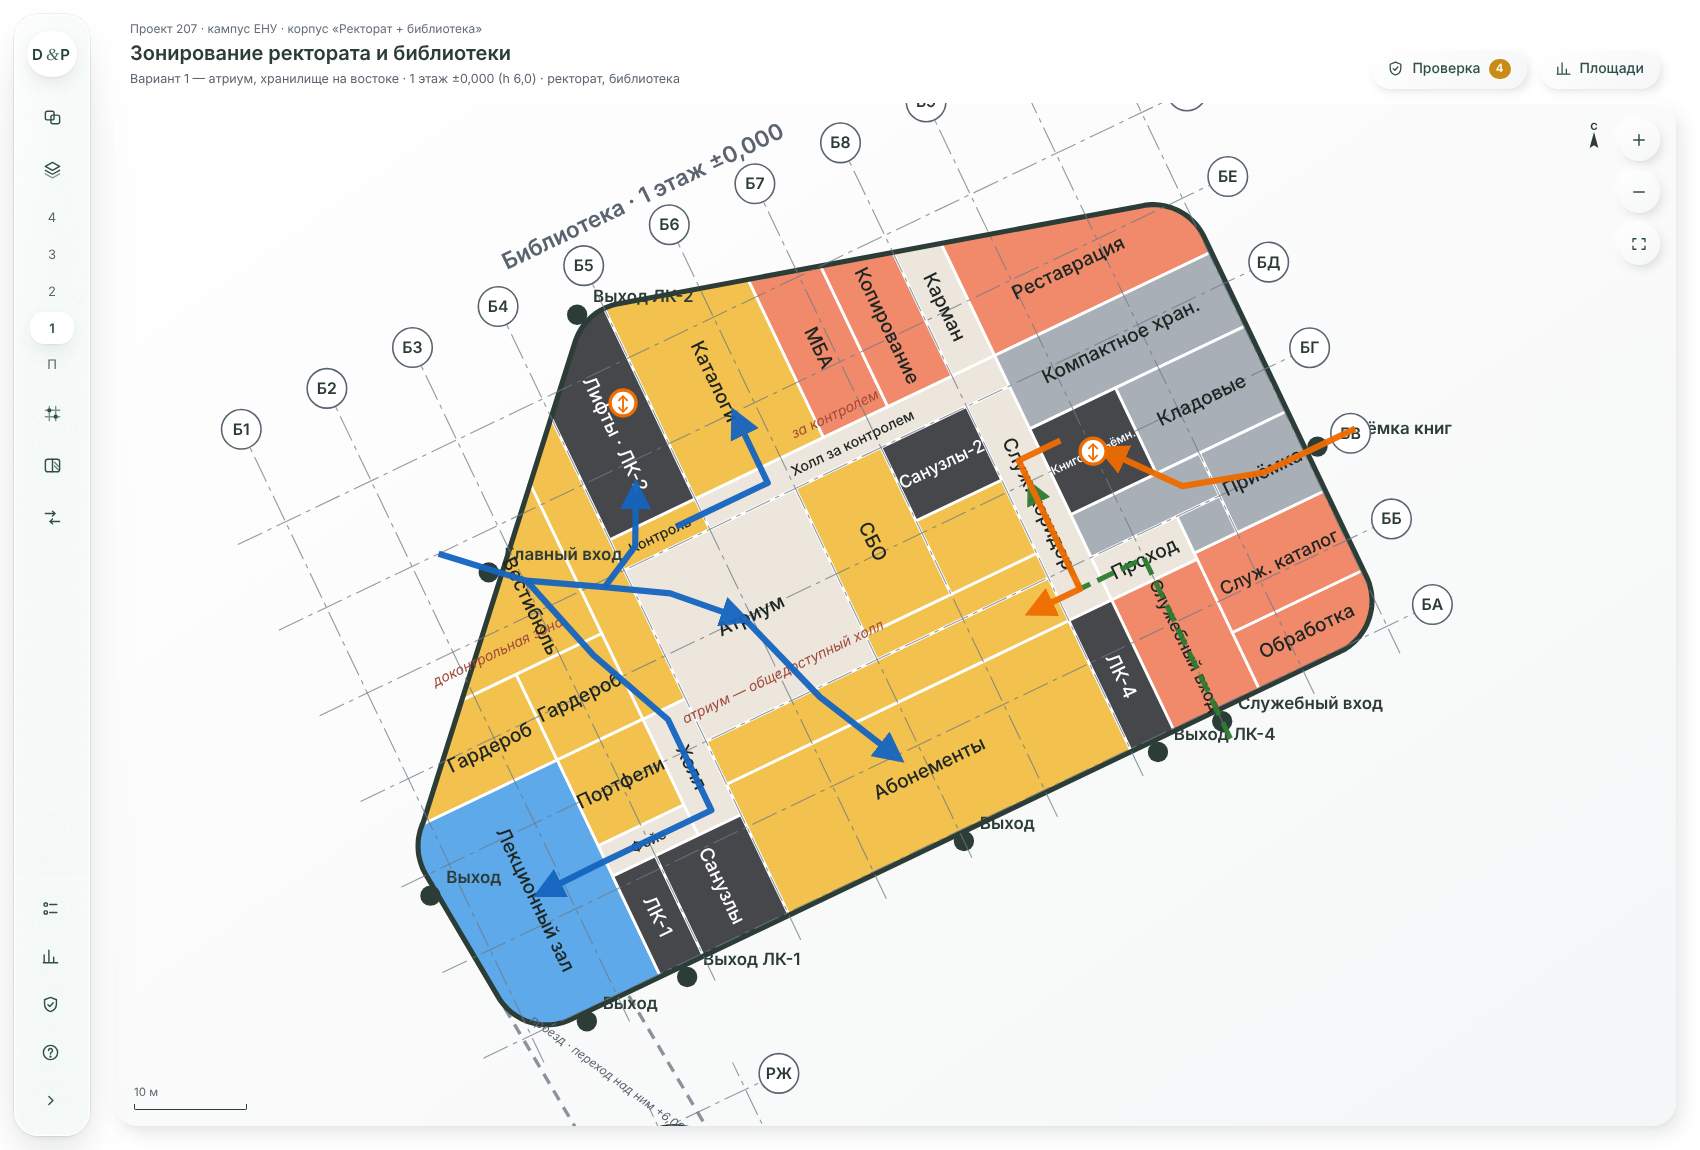
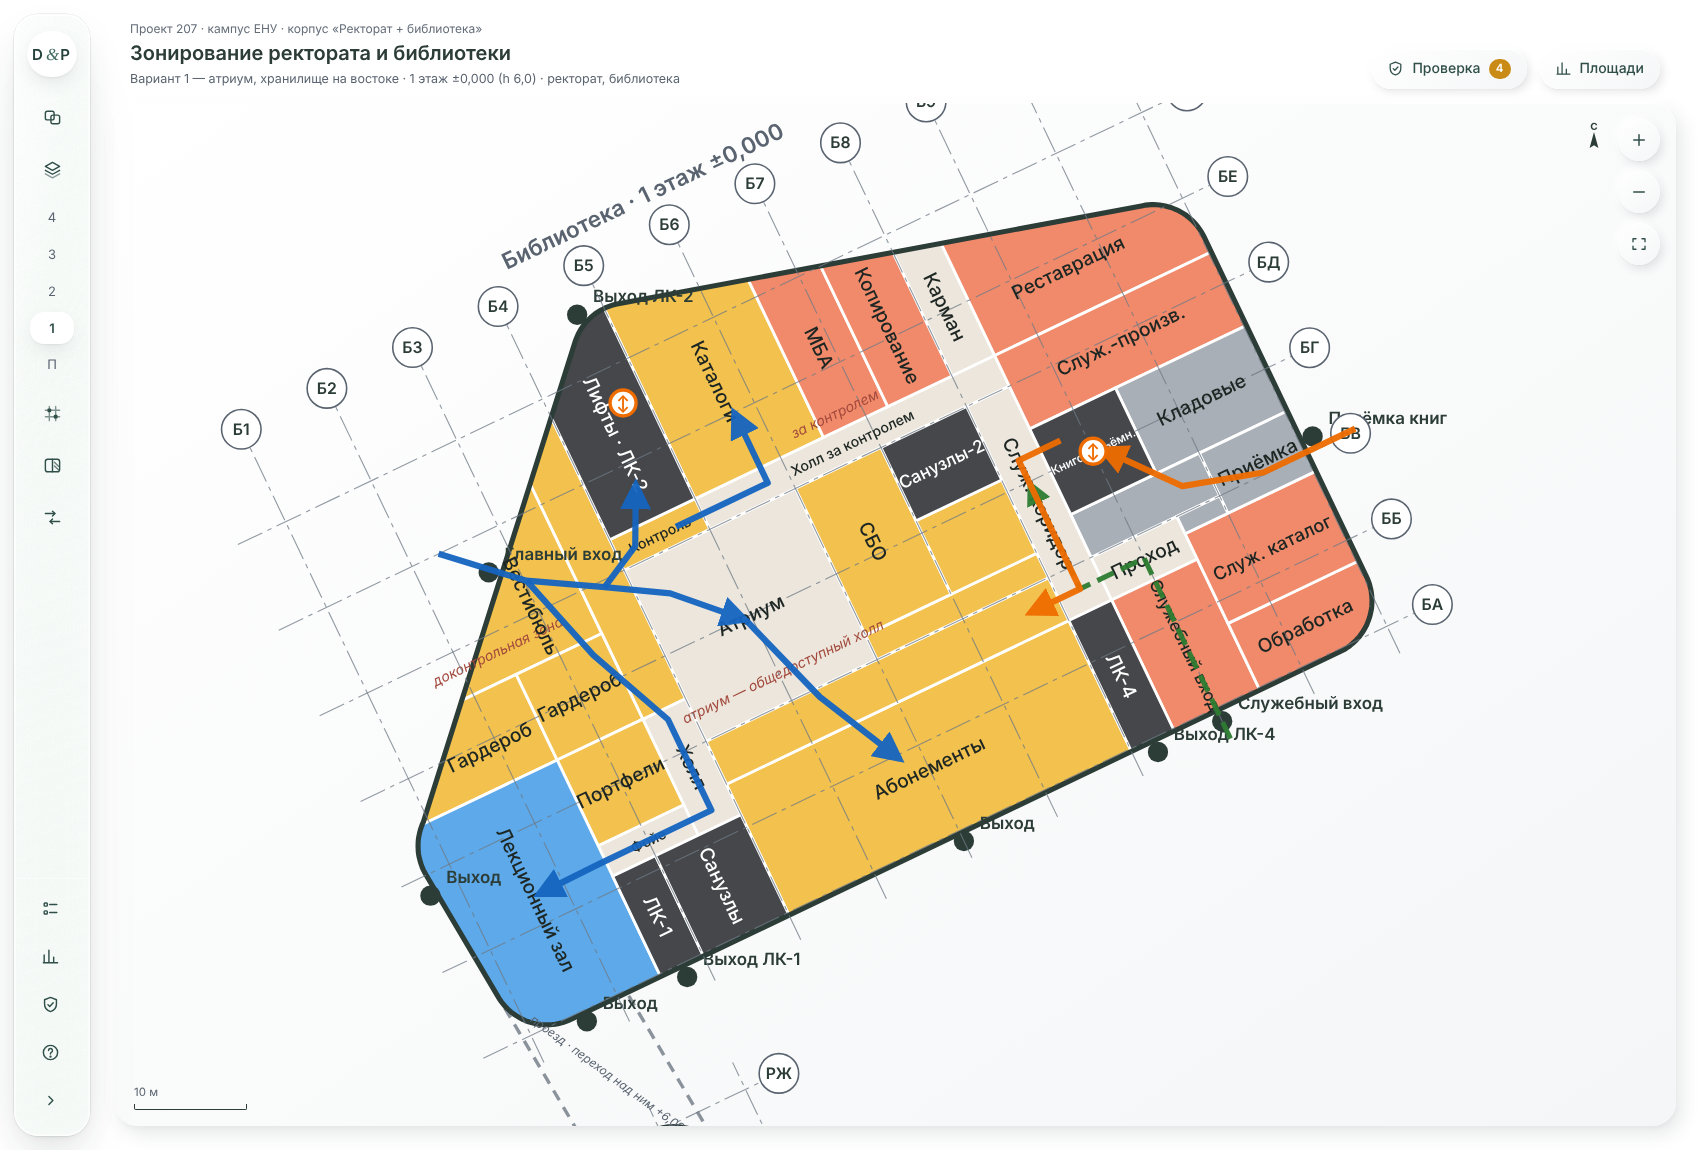
Библиотека: компактное хранение только на 2 эт., на 1 эт. вместо него служебно-производственные; обработка 78, служебный каталог 112 с учётом скругления угла
Claude-Session: https://claude.ai/code/session_01PBUMDRyqQNphWJTD6zJTqL

Changed region(s): [[0.6859, 0.3652, 0.8106, 0.5783], [0.5924, 0.213, 0.7482, 0.3652], [0.8106, 0.3652, 0.8418, 0.3957]]

diff --git a/ADM_LIB_Zoning.html b/ADM_LIB_Zoning.html
@@ -489,22 +489,22 @@ L("1",46.2,52.5,36.6,56,"z5","mba","МБА","Межбиблиотечный аб
 L("1",52.5,58.8,36.6,56,"z5","repro","Копирование","Лаборатория микрофотокопирования и репродуцирования","У хранилища и служебного коридора (п. 3.110); С-фасад.",{p:"serv"});
 L("1",63,86,36.6,56,"z5","rest","Реставрация","Лаборатория гигиены и реставрации книг, переплётно-брошюровочная",
   "Рядом с копированием через световой карман (решение архитектора); при хранилище и книгоподъёмниках (п. 3.110); С и ВСВ фасады — дневной свет.",{p:"serv"});
-L("1",63,86,29.4,36.6,"z7","storeC","Компактное хран.","Компактное хранение (передвижные стеллажи), часть 1",
-  "Компактное хранение разделено на 1 и 2 этажи (решение архитектора); табл. 26 — 20 % фонда × 1,25 м² на 1 000 ед.; передвижные стеллажи — на нижних этажах; без окон.",{p:"store",nl:true});
+L("1",63,86,29.4,36.6,"z5","admin","Служ.-произв.","Служебно-производственные помещения: дирекция, бухгалтерия (у окна ВСВ), кладовые",
+  "Вместо компактного хранения 1 этажа (решение архитектора); табл. 26 — 3 м² на 10 тыс. ед.; производственная зона (п. 3.109), вход из служебного коридора; кабинеты — у ВСВ-окна, кладовые — в глубине.",{p:"serv"});
 L("1",71.4,86,21,29.4,"z7","svc1","Кладовые","Служебно-производственные: кладовые, обменный фонд",
   "Без окон — кладовые (СН РК п. 5.4.6.4); у книгоподъёмников и приёмки (п. 3.109).",{p:"serv",nl:true});
 L("1",63,71.4,-1,12.6,"z5","staffin","Служебный вход","Служебный вход, гардероб персонала, комната психологической разгрузки и приёма пищи",
   "Отдельный служебный вход с гардеробом (п. 3.104, 3.109); психологическая разгрузка — при гардеробе (СН РК 3.02-08 п. 5.4.4.23), приём пищи — п. 5.4.4.29.",{p:"serv"});
 L("1",63,71.4,12.6,16.8,"cor","spass","Проход","Служебный проход: служебный вход — служебный коридор",
   "По решению архитектора: от служебного входа прямо в служебный коридор и к ЛК-4, без читательских зон.");
-L("1",71.4,86,-1,5.4,"z5","proc","Обработка","Комплектование и обработка литературы (78 м²)",
+L("1",71.4,86,-1,6.3,"z5","proc","Обработка","Комплектование и обработка литературы (78 м²)",
   "Табл. 26: 6 м² на сотрудника, 1 сотрудник на 140 тыс. ед. → 78 м²; у служебного входа; ЮЮВ и ВСВ фасады.",{p:"serv"});
-L("1",71.4,86,5.4,13.2,"z5","scat","Служ. каталог","Служебный каталог (112 м²)",
+L("1",71.4,86,6.3,15.1,"z5","scat","Служ. каталог","Служебный каталог (112 м²)",
   "Табл. 26: 2,5 м² на шкаф (40 тыс. ед.) → 112,5 м²; между обработкой и приёмкой; ВСВ-фасад.",{p:"serv"});
-L("1",75.6,86,13.2,21,"z7","exped","Приёмка","Экспедиция: приём и распаковка поступлений",
+L("1",75.6,86,15.1,21,"z7","exped","Приёмка","Экспедиция: приём и распаковка поступлений",
   "Разгрузка с ВСВ-фасада у книгоподъёмников (п. 3.109).",{p:"serv"});
 L("1",63,75.6,16.8,21,"z7","svc1","","Служебно-производственные: кладовые, обменный фонд","Часть кладовых.",{p:"serv"});
-L("1",71.4,75.6,13.2,16.8,"z7","svc1","","Служебно-производственные: кладовые, обменный фонд","Часть кладовых.",{p:"serv"});
+L("1",71.4,75.6,15.1,16.8,"z7","svc1","","Служебно-производственные: кладовые, обменный фонд","Часть кладовых.",{p:"serv"});
 
 // ───────── 2–4 ЭТАЖИ: общее ─────────
 for(const f of ["2","3","4"]){
@@ -531,10 +531,8 @@ for(const f of ["2","3"]){
 L("2",63,86,-1,21,"z7","storeS","Хранение-Ю","Основное книгохранилище, южный отсек",
   "Без окон — фонд без солнца; доступ только из служебного коридора; отсек ≈ 495 м² ≤ 600 м² (п. 4.2.1.69); выходы — служебный коридор и ЛК-4 (п. 5.3.1.29).",{p:"store",nl:true});
 L("2",71.4,86,21,29.4,"z7","storeC","","Компактное хранение (передвижные стеллажи), часть 2","Часть отсека компактного хранения.",{p:"store",nl:true});
-L("2",63,86,29.4,41.4,"z7","storeC","Компактное хран.","Компактное хранение (передвижные стеллажи), часть 2",
-  "Вторая часть компактного хранения (решение архитектора — на двух этажах); сокращено до нормы табл. 26 (450 м² полезной), северная часть отдана дирекции; без окон.",{p:"store",nl:true});
-L("2",63,86,41.4,56,"z5","admin","Дирекция","Дирекция и бухгалтерия библиотеки",
-  "На лишней площади компактного хранения (решение архитектора): администрация — производственная зона (п. 3.109), не выше 3 этажа; окна на С и ВСВ; вход из служебного коридора, без читательских зон.",{p:"serv"});
+L("2",63,86,29.4,56,"z7","storeC","Компактное хран.","Компактное хранение (передвижные стеллажи)",
+  "Компактное хранение (табл. 26: 20 % фонда × 1,25 м² на 1 000 ед.) — на 2 этаже, рядом с книгоподъёмниками; отсек ≈ 430 м² ≤ 600 м² (п. 4.2.1.69); без окон.",{p:"store",nl:true});
 for(const f of ["3"]){
   L(f,63,86,-1,21,"z7","storeS","Хранение-Ю","Основное книгохранилище, южный отсек","Без окон; доступ только из служебного коридора; отсек ≈ 495 м² ≤ 600 м²; выходы — служебный коридор и ЛК-4.",{p:"store",nl:true});
   L(f,71.4,86,21,29.4,"z7","storeN","","Основное книгохранилище, северный отсек","Часть северного отсека.",{p:"store",nl:true});
@@ -584,7 +582,7 @@ L("4",-3,25.2,36.6,56,"z6","av","Аудиовизуал.","Зал аудиови
 // ───────── входы, потоки, вертикальные связи, примечания ─────────
 ENTR.push(["LIB",14.3,38.6,"Главный вход","*"]);
 ENTR.push(["LIB",67.2,-1.3,"Служебный вход","*"]);
-ENTR.push(["LIB",85.3,17,"Приёмка книг","*"]);
+ENTR.push(["LIB",85.3,18,"Приёмка книг","*"]);
 ENTR.push(["LIB",14.7,-1.3,"Выход ЛК-1","*"]);
 ENTR.push(["LIB",-2.7,15,"Выход","*"]);
 ENTR.push(["LIB",31.2,55.8,"Выход ЛК-2","*"]);

diff --git a/LIB_Zoning_REPORT.md b/LIB_Zoning_REPORT.md
@@ -16,7 +16,7 @@
   - **Половина — хранение**, 1 668 м²: три отсека основного хранения ≤ 600 м² и хранилище редких изданий за противопожарными стенами (п. 5.3.1.30). П. 3.110 прямо рекомендует подземные этажи для основного хранилища.
 - **Хранение на этажах пересчитано под норму:**
   - основное — подвал, 2 этаж (южный отсек), 3 этаж (оба отсека);
-  - компактное — 1 этаж и 2 этаж (северный отсек), передвижные стеллажи на нижних этажах; лишняя площадь срезана до нормы (453 м² полезной при 450), на её месте — **дирекция и бухгалтерия** (≈ 70 м², 2 этаж, окна на С, вход из служебного коридора);
+  - компактное — только 2 этаж, северный отсек ≈ 432 м² (≈ 380 м² полезной при норме 450). На 1 этаже на месте компактного хранения — **служебно-производственные помещения** (≈ 153 м²): дирекция и бухгалтерия у ВСВ-окна, кладовые в глубине, вход из служебного коридора;
   - **на 4 этаже хранилища нет** — там научные залы.
 - **Атриум** 16,8 × 16,8 м с фонарём, **без лестницы и общедоступный**. На 1 этаже из него вход в абонемент.
 - **Контроль** — перед лифтами и каталогами, ось Б4–Б5 / БД. За ним лифты к залам, каталоги, СБО, МБА. Со стороны атриума зона за контролем отделена стеклом.
@@ -121,8 +121,8 @@
 | Аудиовизуальные залы, зал редких книг | — | — | — | — | 464 | 464 |
 | Фонд открытого доступа | — | — | 335 | 222 | 222 | 779 |
 | Основное хранение (вкл. редкие издания) | 1 668 | — | 446 | 878 | — | 2 992 |
-| Компактное хранение | — | 153 | 362 | — | — | 515 |
-| Служебные и лаборатории (МБА, копирование, реставрация, служебный вход, обработка, служебный каталог, приёмка, кладовые, портфели; на 2 этаже — дирекция) | — | 934 | 70 | — | — | 1 004 |
+| Компактное хранение | — | — | 432 | — | — | 432 |
+| Служебные и лаборатории (МБА, копирование, реставрация, служебный вход, обработка 79, служебный каталог 113, приёмка, кладовые, портфели, служебно-производственные с дирекцией) | — | 1 087 | — | — | — | 1 087 |
 | Техника | 1 476 | — | — | — | — | 1 476 |
 | Атриум | — | 282 | 282 | 282 | 282 | 1 129 |
 | Коридоры, холлы, служебный коридор | 391 | 333 | 344 | 212 | 63 | 1 344 |
@@ -142,13 +142,13 @@
 | Читальные залы научного отд. | 2 528 | 2 225 | 2 700 | −475 |
 | Аудиовизуальные, редкие книги | 464 | 409 | 900 | −491 |
 | **Основное хранение + сотрудники** | 2 992 | 2 633 | 2 752 | **−119** ² |
-| **Компактное хранение** | 515 | 453 | 450 | **+3** ² |
+| **Компактное хранение** | 432 | 380 | 450 | **−70** ² |
 | Открытый доступ | 779 | 686 | 1 800 | −1 114 |
-| Обработка и служебные (вкл. дирекцию 70) | 1 004 | 884 | 1 259 | −375 |
+| Обработка и служебные | 1 087 | 957 | 1 259 | −302 |
 | **Итого табл. 26** | **12 475** | **≈ 10 980** | **14 012** | **≈ −3 030** |
 
 ¹ Аванзалы — это ещё и галереи вокруг атриума и пути эвакуации.
-² Закрытое хранение вместе: 3 086 м² полезной площади при норме 3 202 — меньше нормы на ≈ 4 %.
+² Закрытое хранение вместе: 3 013 м² полезной площади при норме 3 202 — меньше нормы на ≈ 6 %.
 
 **Места в залах:** учебных ≈ 525, научных ≈ 740, групповых ≈ 230, аудиовизуальных и редких ≈ 80 — всего ≈ 1 580.
 
@@ -167,7 +167,7 @@
 - **4 этаж при блокировке ЛК-2** — см. раздел 3.2.
 - **Отметка и высота подвала** (−4,500, h 4,5) — допущение. Нужен гидроизоляционный контур хранилища и перепроверка нагрузки от стеллажей.
 - **Лифтовой узел (правило 3).** У фасада стоит ЛК-2, шахты — за ней.
-- **Дирекция** размещена на 2 этаже (≈ 70 м²) за счёт лишней площади компактного хранения. Нужен штат от технолога.
-- **Обработка и служебный каталог** стоят в скруглённом ЮВ углу: фактически 67 и 100 м², а нужно 78 и 112,5 м² (табл. 26). Нужно перекроить угол.
+- **Дирекция и бухгалтерия** — в служебно-производственных помещениях 1 этажа (≈ 153 м², окно на ВСВ только в торце). Нужен штат от технолога.
+- **Обработка и служебный каталог** перекроены с учётом скруглённого ЮВ угла: 79 и 113 м² (табл. 26: 78 и 112,5).
 - **Буфет и курительные** (п. 3.108) не размещены: правило 5 задания запрещает добавлять что-то сверх программы.
 - **Переход и ректорат** — следующим этапом.
